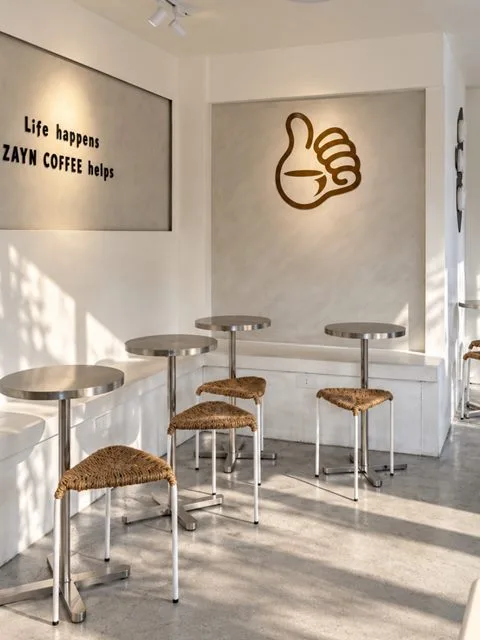
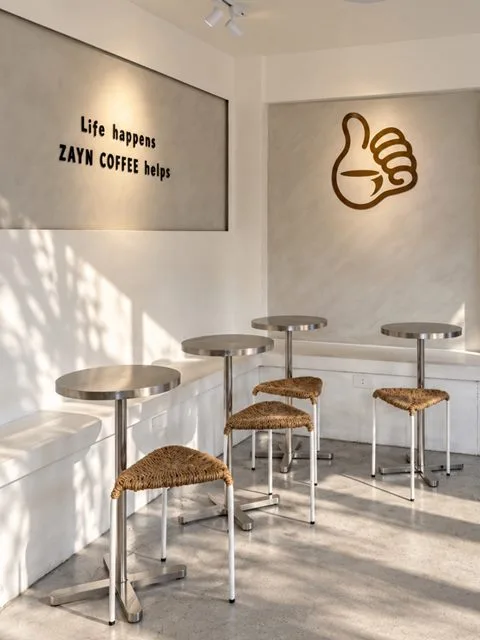
Arch frames on brew station and bottle tiles; recrop Metal details
On phone/tablet the brew station and Spanish-in-a-Bottle gallery tiles
get arched tops like the window-bar tile. The Metal details photo is
recropped from the original so the wall sign is no longer cut off.

diff --git a/index.html b/index.html
@@ -48,7 +48,7 @@
 <link rel="preconnect" href="https://fonts.gstatic.com" crossorigin>
 <link href="https://fonts.googleapis.com/css2?family=Fraunces:ital,opsz,wght@0,9..144,300..600;1,9..144,300..500&family=Work+Sans:wght@400;500;600&display=swap" rel="stylesheet">
 <link rel="preload" as="image" href="assets/img/hero/cup-hallway-960.webp" imagesrcset="assets/img/hero/cup-hallway-480.webp 480w, assets/img/hero/cup-hallway-960.webp 960w" imagesizes="(min-width: 960px) 40vw, 86vw">
-<link rel="stylesheet" href="css/site.css?v=20261013">
+<link rel="stylesheet" href="css/site.css?v=20261014">
 
 <script type="application/ld+json">
 {
@@ -269,8 +269,8 @@
           <span>Soft cream tones</span>
         </li>
         <li class="reveal" style="--ar: 0.75">
-          <img src="assets/img/story/metal-details-480.webp"
-               srcset="assets/img/story/metal-details-480.webp 480w, assets/img/story/metal-details-939.webp 939w"
+          <img src="assets/img/story/metal-details-480.webp?v=2"
+               srcset="assets/img/story/metal-details-480.webp?v=2 480w, assets/img/story/metal-details-939.webp?v=2 939w"
                sizes="(min-width: 760px) 20vw, 170px" width="480" height="640" loading="lazy" decoding="async"
                alt="Round metal tables and woven stools in sunlight beneath a “Life happens, Zayn Coffee helps” wall sign">
           <span>Metal details</span>

diff --git a/css/site.css b/css/site.css
@@ -652,6 +652,8 @@ p:last-child{ margin-bottom: 0; }
   .g-pull{ aspect-ratio: 3 / 4; }
   .g-bottle{ aspect-ratio: 3 / 4; }
   .g-seat img{ object-position: 50% 60%; }
+  /* arched tops, echoing the window-bar tile */
+  .g-cup, .g-bottle{ border-radius: 999px 999px var(--radius-sm) var(--radius-sm); }
 }
 
 /* ---------- Merchandise ---------- */
